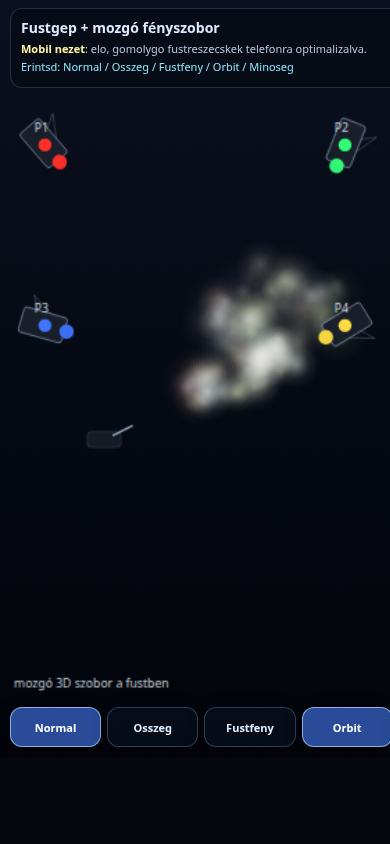
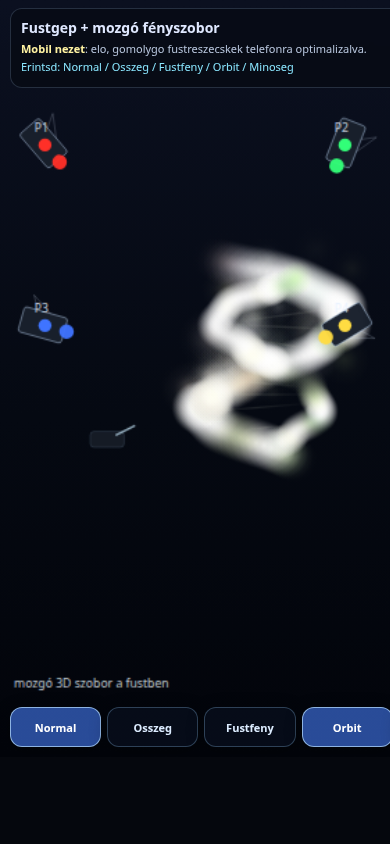
Make projected smoke sculpture readable

Changed region(s): [[0.4308, 0.2773, 0.9538, 0.5853], [0.3077, 0.4929, 0.3385, 0.5237]]

diff --git a/projector-smoke-android/app/src/main/assets/main.js b/projector-smoke-android/app/src/main/assets/main.js
@@ -262,7 +262,7 @@ function drawParticle(s) {
 
   if (light.energy <= 0.0035) return;
   let rgb = light.rgb;
-  let alpha = Math.min(0.62, dens * Math.pow(light.energy, 0.68) * 0.86);
+  let alpha = Math.min(0.38, dens * Math.pow(light.energy, 0.68) * 0.42);
   if (mode === 1) {
     const multi = smoothStep(0.8, 2.15, light.hits);
     rgb = [rgb[0] * 0.28 + 255 * multi, rgb[1] * 0.25 + 225 * multi, rgb[2] * 0.20 + 70 * multi];
@@ -357,6 +357,73 @@ function drawProjectorHardware() {
   }
 }
 
+
+function drawLitSculptureSmoke() {
+  // Dense illuminated smoke samples along the projected moving 3D sculpture.
+  // These are still smoke samples, not empty-air rays or a solid mesh.
+  const samples = quality === 0 ? 120 : quality === 1 ? 190 : 280;
+  for (let i = 0; i < samples; i++) {
+    const t01 = i / (samples - 1);
+    const t = -Math.PI * 1.15 + t01 * Math.PI * 2.3;
+    for (let strand = 0; strand < 2; strand++) {
+      const phase = time * 0.95 + strand * Math.PI;
+      const r = strand === 0 ? 18.0 : 11.5;
+      const jitter = Math.sin(i * 12.989 + strand * 78.23 + time) * 0.9;
+      const pnt = {
+        x: 5 + Math.sin(t + phase) * r + Math.sin(t * 3.0 + time) * 2.0 + jitter,
+        y: 22 + (t / Math.PI) * 19.0 + Math.sin(t * 2.0 + phase) * 2.0,
+        z: -2 + Math.cos(t * 1.25 + phase * 0.8) * (strand === 0 ? 13.0 : 8.0) + Math.cos(t * 4.0 - time) * 1.4
+      };
+      const light = projectorLightAt(pnt);
+      if (light.energy <= 0.002) continue;
+      const pp = project(pnt);
+      if (pp.z <= 1) continue;
+      const localPulse = 0.75 + 0.25 * Math.sin(time * 3.0 + i * 0.19 + strand);
+      const rgb = [
+        light.rgb[0] * 0.85 + 42,
+        light.rgb[1] * 0.85 + 42,
+        light.rgb[2] * 0.85 + 46
+      ];
+      const alpha = Math.min(0.72, (0.20 + light.energy * 0.42) * localPulse);
+      const radius = (strand === 0 ? 2.2 : 1.7) * Math.min(innerWidth, innerHeight) / pp.z;
+      const g = ctx.createRadialGradient(pp.x, pp.y, 0, pp.x, pp.y, radius * 2.8);
+      g.addColorStop(0, rgba(rgb, alpha));
+      g.addColorStop(0.45, rgba(rgb, alpha * 0.36));
+      g.addColorStop(1, rgba(rgb, 0));
+      ctx.fillStyle = g;
+      ctx.beginPath(); ctx.arc(pp.x, pp.y, radius * 2.8, 0, Math.PI * 2); ctx.fill();
+    }
+  }
+
+  // A few cross ribs make the volume read as a sculpture instead of random smoke.
+  for (let j = 0; j < 10; j++) {
+    const t = -Math.PI + (j / 9) * Math.PI * 2 + time * 0.25;
+    const a = {
+      x: 5 + Math.sin(t + time * 0.95) * 18,
+      y: 22 + (t / Math.PI) * 17,
+      z: -2 + Math.cos(t * 1.25 + time * 0.76) * 13
+    };
+    const b = {
+      x: 5 + Math.sin(t + time * 0.95 + Math.PI) * 11.5,
+      y: a.y + Math.sin(t * 2.0) * 2,
+      z: -2 + Math.cos(t * 1.25 + time * 0.76 + Math.PI) * 8
+    };
+    drawSmokeSegment(a, b, [230, 235, 210], 0.11);
+  }
+}
+
+function drawSmokeSegment(a, b, color, alpha) {
+  const pa = project(a), pb = project(b);
+  if (pa.z <= 1 || pb.z <= 1) return;
+  const grad = ctx.createLinearGradient(pa.x, pa.y, pb.x, pb.y);
+  grad.addColorStop(0, rgba(color, 0));
+  grad.addColorStop(0.5, rgba(color, alpha));
+  grad.addColorStop(1, rgba(color, 0));
+  ctx.strokeStyle = grad;
+  ctx.lineWidth = Math.max(1, 260 / Math.max(pa.z, pb.z));
+  ctx.beginPath(); ctx.moveTo(pa.x, pa.y); ctx.lineTo(pb.x, pb.y); ctx.stroke();
+}
+
 function render() {
   const w = innerWidth, h = innerHeight;
   ctx.clearRect(0, 0, w, h);
@@ -366,6 +433,7 @@ function render() {
   drawSmokeMachine();
   const sorted = smoke.slice().sort((a, b) => project(b.p).z - project(a.p).z);
   for (const s of sorted) drawParticle(s);
+  drawLitSculptureSmoke();
   drawProjectorHardware();
   ctx.fillStyle = 'rgba(235,245,255,0.82)';
   ctx.font = '12px system-ui, sans-serif';

diff --git a/projector-smoke-web/main.js b/projector-smoke-web/main.js
@@ -262,7 +262,7 @@ function drawParticle(s) {
 
   if (light.energy <= 0.0035) return;
   let rgb = light.rgb;
-  let alpha = Math.min(0.62, dens * Math.pow(light.energy, 0.68) * 0.86);
+  let alpha = Math.min(0.38, dens * Math.pow(light.energy, 0.68) * 0.42);
   if (mode === 1) {
     const multi = smoothStep(0.8, 2.15, light.hits);
     rgb = [rgb[0] * 0.28 + 255 * multi, rgb[1] * 0.25 + 225 * multi, rgb[2] * 0.20 + 70 * multi];
@@ -357,6 +357,73 @@ function drawProjectorHardware() {
   }
 }
 
+
+function drawLitSculptureSmoke() {
+  // Dense illuminated smoke samples along the projected moving 3D sculpture.
+  // These are still smoke samples, not empty-air rays or a solid mesh.
+  const samples = quality === 0 ? 120 : quality === 1 ? 190 : 280;
+  for (let i = 0; i < samples; i++) {
+    const t01 = i / (samples - 1);
+    const t = -Math.PI * 1.15 + t01 * Math.PI * 2.3;
+    for (let strand = 0; strand < 2; strand++) {
+      const phase = time * 0.95 + strand * Math.PI;
+      const r = strand === 0 ? 18.0 : 11.5;
+      const jitter = Math.sin(i * 12.989 + strand * 78.23 + time) * 0.9;
+      const pnt = {
+        x: 5 + Math.sin(t + phase) * r + Math.sin(t * 3.0 + time) * 2.0 + jitter,
+        y: 22 + (t / Math.PI) * 19.0 + Math.sin(t * 2.0 + phase) * 2.0,
+        z: -2 + Math.cos(t * 1.25 + phase * 0.8) * (strand === 0 ? 13.0 : 8.0) + Math.cos(t * 4.0 - time) * 1.4
+      };
+      const light = projectorLightAt(pnt);
+      if (light.energy <= 0.002) continue;
+      const pp = project(pnt);
+      if (pp.z <= 1) continue;
+      const localPulse = 0.75 + 0.25 * Math.sin(time * 3.0 + i * 0.19 + strand);
+      const rgb = [
+        light.rgb[0] * 0.85 + 42,
+        light.rgb[1] * 0.85 + 42,
+        light.rgb[2] * 0.85 + 46
+      ];
+      const alpha = Math.min(0.72, (0.20 + light.energy * 0.42) * localPulse);
+      const radius = (strand === 0 ? 2.2 : 1.7) * Math.min(innerWidth, innerHeight) / pp.z;
+      const g = ctx.createRadialGradient(pp.x, pp.y, 0, pp.x, pp.y, radius * 2.8);
+      g.addColorStop(0, rgba(rgb, alpha));
+      g.addColorStop(0.45, rgba(rgb, alpha * 0.36));
+      g.addColorStop(1, rgba(rgb, 0));
+      ctx.fillStyle = g;
+      ctx.beginPath(); ctx.arc(pp.x, pp.y, radius * 2.8, 0, Math.PI * 2); ctx.fill();
+    }
+  }
+
+  // A few cross ribs make the volume read as a sculpture instead of random smoke.
+  for (let j = 0; j < 10; j++) {
+    const t = -Math.PI + (j / 9) * Math.PI * 2 + time * 0.25;
+    const a = {
+      x: 5 + Math.sin(t + time * 0.95) * 18,
+      y: 22 + (t / Math.PI) * 17,
+      z: -2 + Math.cos(t * 1.25 + time * 0.76) * 13
+    };
+    const b = {
+      x: 5 + Math.sin(t + time * 0.95 + Math.PI) * 11.5,
+      y: a.y + Math.sin(t * 2.0) * 2,
+      z: -2 + Math.cos(t * 1.25 + time * 0.76 + Math.PI) * 8
+    };
+    drawSmokeSegment(a, b, [230, 235, 210], 0.11);
+  }
+}
+
+function drawSmokeSegment(a, b, color, alpha) {
+  const pa = project(a), pb = project(b);
+  if (pa.z <= 1 || pb.z <= 1) return;
+  const grad = ctx.createLinearGradient(pa.x, pa.y, pb.x, pb.y);
+  grad.addColorStop(0, rgba(color, 0));
+  grad.addColorStop(0.5, rgba(color, alpha));
+  grad.addColorStop(1, rgba(color, 0));
+  ctx.strokeStyle = grad;
+  ctx.lineWidth = Math.max(1, 260 / Math.max(pa.z, pb.z));
+  ctx.beginPath(); ctx.moveTo(pa.x, pa.y); ctx.lineTo(pb.x, pb.y); ctx.stroke();
+}
+
 function render() {
   const w = innerWidth, h = innerHeight;
   ctx.clearRect(0, 0, w, h);
@@ -366,6 +433,7 @@ function render() {
   drawSmokeMachine();
   const sorted = smoke.slice().sort((a, b) => project(b.p).z - project(a.p).z);
   for (const s of sorted) drawParticle(s);
+  drawLitSculptureSmoke();
   drawProjectorHardware();
   ctx.fillStyle = 'rgba(235,245,255,0.82)';
   ctx.font = '12px system-ui, sans-serif';

diff --git a/projector-smoke-android/app/src/main/assets/index.html b/projector-smoke-android/app/src/main/assets/index.html
@@ -93,6 +93,6 @@
     <button id="orbitBtn" class="active">Orbit</button>
     <button id="qualityBtn">Low</button>
   </div>
-  <script src="./main.js?v=mobile9"></script>
+  <script src="./main.js?v=mobile10"></script>
 </body>
 </html>

diff --git a/projector-smoke-web/index.html b/projector-smoke-web/index.html
@@ -93,6 +93,6 @@
     <button id="orbitBtn" class="active">Orbit</button>
     <button id="qualityBtn">Low</button>
   </div>
-  <script src="./main.js?v=mobile9"></script>
+  <script src="./main.js?v=mobile10"></script>
 </body>
 </html>
